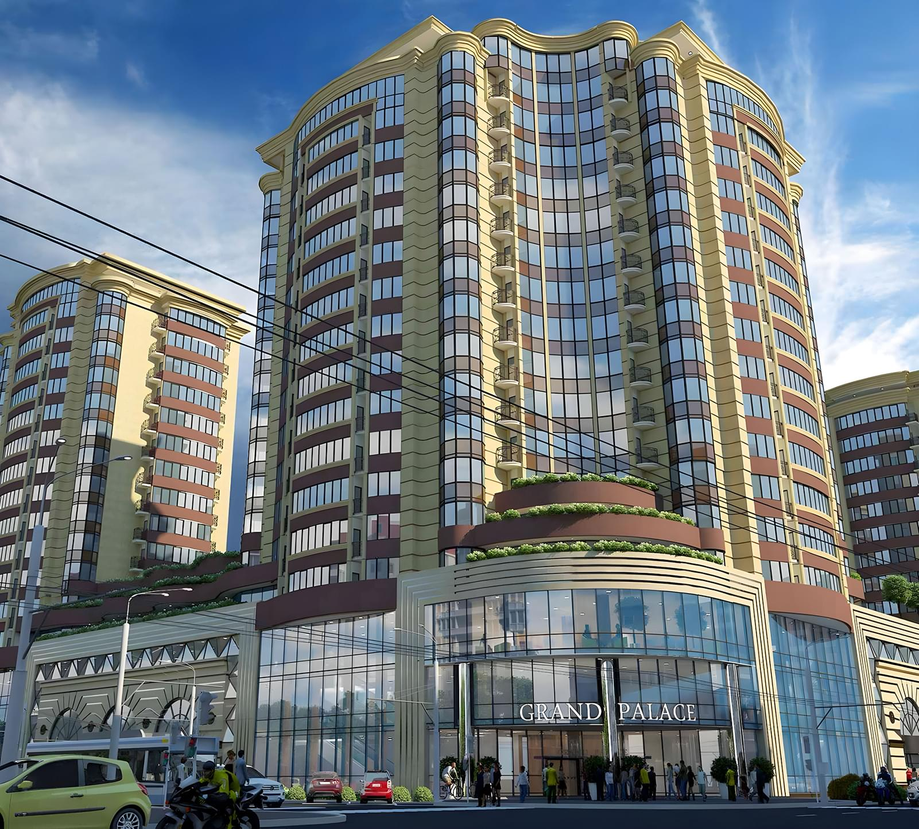
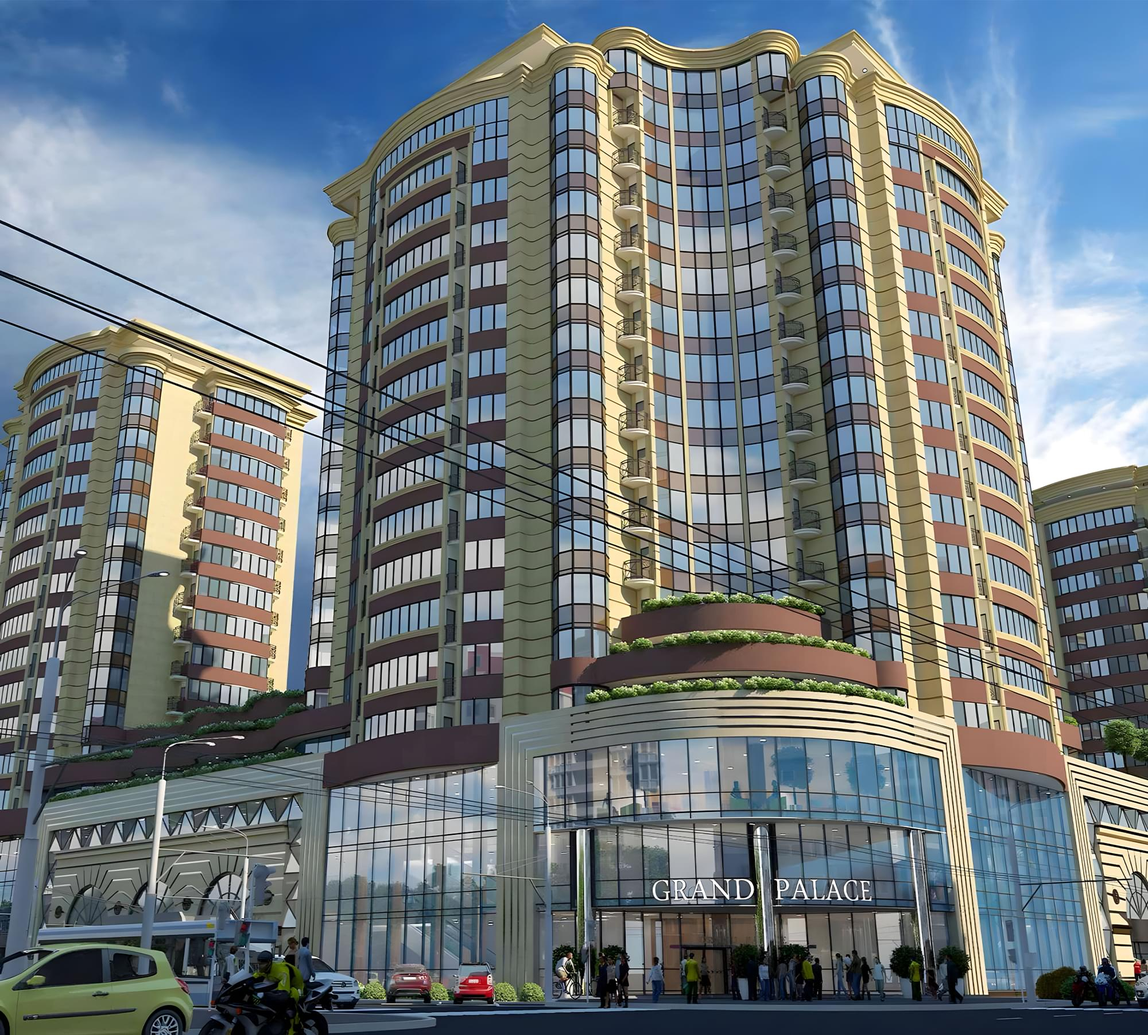
bgc img

diff --git a/docs/index.html b/docs/index.html
@@ -941,7 +941,7 @@
 </svg><use href="#fb"></use><use xlink:href="img/sprite.svg#fb"></use></svg></a><a class="social-link" href="https://www.instagram.com/grand_palace_km/" target="_blank" itemprop="sameAs"><object class="icon" type="image/svg+xml" data="img/instagram.svg" width="31" height="31"></object></a></div><div class="header-info__item header__lng-toggle" itemscope itemtype="http://schema.org/SiteNavigationElement"><a class="active" href="#" data-lang="uk" itemprop="url">Укр</a><a href="#" data-lang="ru" itemprop="url">Рус</a></div></div><nav class="header__menu" itemscope itemtype="http://schema.org/SiteNavigationElement"><ul class="menu__list"><li itemscope itemtype="http://schema.org/SiteNavigationElement"><a class="menu__link" href="residential.html" itemprop="url">Житлова нерухомість</a></li><li itemscope itemtype="http://schema.org/SiteNavigationElement"><a class="menu__link" href="commercial.html" itemprop="url">Комерційна нерухомість</a></li><li itemscope itemtype="http://schema.org/SiteNavigationElement"><a class="menu__link" href="#generalplan" itemprop="url">Загальний план</a></li><li itemscope itemtype="http://schema.org/SiteNavigationElement"><a class="menu__link" href="#overview" itemprop="url">Переваги</a></li><li itemscope itemtype="http://schema.org/SiteNavigationElement"><a class="menu__link" href="#progress" itemprop="url">Хід будівництва</a></li><li itemscope itemtype="http://schema.org/SiteNavigationElement"><a class="menu__link" href="#documentation" itemprop="url">Документація</a></li><li itemscope itemtype="http://schema.org/SiteNavigationElement"><a class="menu__link" href="contacts.html" itemprop="url">Контакти</a></li><li itemscope itemtype="http://schema.org/SiteNavigationElement"><a class="menu__link" href="news.html" itemprop="url">Новини</a></li></ul></nav></div></header><main class="main"><div class="popap-block"><div class="opacity-bg"></div><div class="popap-more-info"> <div class="popap-header-line"><h2 class="documentation__title title title--one-word"><span class="head-line">дізнатися ціну</span></h2></div><form> <div class="popap-input_block flex-popap"><span class="cancel-popap"><svg version="1.2" xmlns="http://www.w3.org/2000/svg" viewBox="0 0 16 16" width="16" height="16">
 <path fill="#9c1a1a" d="m14.7 0.8l1 1-13.9 13.9-1-1z"/>
 <path fill="#9c1a1a" d="m0.8 1.8l1-1 13.9 13.9-1 1z"/>
-</svg></span><p class="flex-popap label-flex input-popap"><label for="name">Імʼя*</label><input type="text" id="name" name="name"></p><p class="flex-popap label-flex input-popap"><label class="validation" for="phoneValidation">Номер телефону*</label><input class="phone-validation" id="phoneValidation" type="tel" name="phone"><div class="incorect-number-test d-none"> <p>*невірний формат вводу даних</p></div></p></div><div class="question flex-popap label-flex"><label>Запитання</label><textarea id="question" name="question" cols="30" rows="10"> </textarea></div><div class="radio-btn"><p><input type="radio" id="liveHouse" name="popapRadio"><label for="liveHouse">Житлова нерухомість</label></p><p><input type="radio" id="comercial" name="popapRadio"><label for="comercial">Комерційна нерухомість</label></p></div><button type="submit">відправити </button></form></div></div><section class="hero"><div class="container"><div class="row center-row-hero"><div class="left-side col"><p class="tagline">Grand Palace</p><h1 class="hero__title"><span class="text">простір для життя з високим стандартом у центрі міста</span></h1><a class="open-popap short-description__btn btn" href="#">Дізнатися ціну</a></div></div></div><div class="slider-images"> <img class="slider-img" src="img/hero1_1.webp" alt="Комерційні приміщення для бізнесу у ТРЦ Grand Palace" loading="lazy"><img src="img/hero.jpg" alt="Сучасний ТРЦ Grand Palce" loading="lazy"><img src="img/hero2_2.webp" alt="Зручний паркінг біля ТРЦ Grand Palace" loading="lazy"><img src="img/hero3_3.webp" alt="Проекція нового ТРЦ Grand Palace" loading="lazy"><img src="img/hero4_4.webp" alt="Житлові квартири в Grand Palace" loading="lazy"><img src="img/hero5_5.webp" alt="Загальний план будівництва - вигляд ззовні" loading="lazy"><img src="img/hero6_6.webp" alt="загальний вигляд Елітного ЖК Grand Palace" loading="lazy"></div></section><section class="real-estate"><div class="container"><article class="description-main_palace"> <h2 class="short-description__title title"><span class="head-line">Про</span> комплекс</h2><p>Відкрийте для себе «Гранд Палас» — ексклюзивний житловий комплекс у центрі Хмельницького, де кожна деталь ретельно продумана для вашої максимальної зручності та комфорту. </p><p>Живіть у центрі подій, насолоджуючись легким доступом до кращих магазинів, ресторанів та культурних закладів міста. </p><p>Життя у «Гранд Палас» — це втілення мрії про ідеальний простір для життя: сучасні просторі квартири з захоплюючими панорамними краєвидами, утепленні мінеральною ватою та з індивідуальними безпечними тепловими пунктами. </p><p>Інтегрований сучасний торгівельний центр, продуктовий супермаркет, фітнес-центр, підземний паркінг з’єднаний з квартирами прямим доступом через ліфти, а також затишні зони відпочинку, дитячий майданчик, ресторан та кафе і все це знаходиться безпосередньо на території комплексу.</p></article><article class="real-estate__residential"><div class="row"><div class="short-description col"><h2 class="short-description__title title"><span class="head-line">Житлова</span> нерухомість</h2><p class="short-description__text">Індивідуальне опалення, вільне планування, велика площа освітлення кімнат, швидкісні ліфти "Otis", цілодобова охорона та консьєрж послуги, можливість безпосередньо ліфтами потрапляти в підземний паркінг та в паркову зону на 4 поверсі, користування фітнес центром.</p><a class="short-description__btn btn" href="residential.html">Детальніше</a></div><div class="images-slider__items col"><span class="images-slider__item slider-item-1 active"></span><span class="images-slider__item slider-item-2"></span><span class="images-slider__item slider-item-3"></span><span class="images-slider__item slider-item-4"></span><span class="images-slider__item slider-item-5"></span></div></div></article><article class="real-estate__commercial"><div class="row"><div class="short-description col"><h2 class="short-description__title title"><span class="head-line">Комерційна</span> нерухомість</h2><p class="short-description__text">Великий вибір приміщень під комерційний бізнес. Вигідне розташування у самому центрі міста. Адаптація площі під будь-який бізнес. Незважаючи на те, чи то стріт-рітейл, кафе, ресторани, фітнес-центр, чи будь-який бізнес сфери послуг і сервісів, ми допоможемо підібрати ідеальне приміщення під бізнес з урахуванням ваших цілей і завдань.</p><a class="short-description__btn btn" href="commercial.html">Детальніше</a></div><div class="images-slider__items col"><span class="images-slider__item slider-item-1"></span><span class="images-slider__item slider-item-2"></span><span class="images-slider__item slider-item-3"></span><span class="images-slider__item slider-item-4"></span><span class="images-slider__item slider-item-5 active"></span></div></div></article></div></section><section class="plan"><span class="ancor" id="generalplan"></span><div class="title-wrap"><h2 class="plan__title title"><span class="head-line">Загальний</span> план</h2></div><div class="plan-bg"><div class="container"><div class="row"><aside class="plan__legend legend-areas"><h3>Умовні позначення</h3><ol><li><div class="legend__icon"><span class="icon-number">1</span><svg class="icon-sprite icon-sprite__pin"><svg xmlns="http://www.w3.org/2000/svg">
+</svg></span><p class="flex-popap label-flex input-popap"><label for="name">Імʼя*</label><input type="text" id="name" name="name"></p><p class="flex-popap label-flex input-popap"><label class="validation" for="phoneValidation">Номер телефону*</label><input class="phone-validation" id="phoneValidation" type="tel" name="phone"><div class="incorect-number-test d-none"> <p>*невірний формат вводу даних</p></div></p></div><div class="question flex-popap label-flex"><label>Запитання</label><textarea id="question" name="question" cols="30" rows="10"> </textarea></div><div class="radio-btn"><p><input type="radio" id="liveHouse" name="popapRadio"><label for="liveHouse">Житлова нерухомість</label></p><p><input type="radio" id="comercial" name="popapRadio"><label for="comercial">Комерційна нерухомість</label></p></div><button type="submit">відправити </button></form></div></div><section class="hero"><div class="container"><div class="row center-row-hero"><div class="left-side col"><p class="tagline">Grand Palace</p><h1 class="hero__title"><span class="text">простір для життя з високим стандартом у центрі міста</span></h1><a class="open-popap short-description__btn btn" href="#">Дізнатися ціну</a></div></div></div><div class="slider-images"> <img class="slider-img" src="img/hero-bg.jpg" alt="Комерційні приміщення для бізнесу у ТРЦ Grand Palace" loading="lazy"><img src="img/hero-bg.jpg" alt="Сучасний ТРЦ Grand Palce" loading="lazy" style="filter: hue-rotate(-45deg)"><img src="img/hero-bg.jpg" alt="Зручний паркінг біля ТРЦ Grand Palace" loading="lazy"><img src="img/hero-bg.jpg" alt="Проекція нового ТРЦ Grand Palace" loading="lazy" style="filter: hue-rotate(-45deg)"><img src="img/hero-bg.jpg" alt="Житлові квартири в Grand Palace" loading="lazy"><img src="img/hero-bg.jpg" alt="Загальний план будівництва - вигляд ззовні" loading="lazy" style="filter: hue-rotate(-45deg)"><img src="img/hero-bg.jpg" alt="загальний вигляд Елітного ЖК Grand Palace" loading="lazy"></div></section><section class="real-estate"><div class="container"><article class="description-main_palace"> <h2 class="short-description__title title"><span class="head-line">Про</span> комплекс</h2><p>Відкрийте для себе «Гранд Палас» — ексклюзивний житловий комплекс у центрі Хмельницького, де кожна деталь ретельно продумана для вашої максимальної зручності та комфорту. </p><p>Живіть у центрі подій, насолоджуючись легким доступом до кращих магазинів, ресторанів та культурних закладів міста. </p><p>Життя у «Гранд Палас» — це втілення мрії про ідеальний простір для життя: сучасні просторі квартири з захоплюючими панорамними краєвидами, утепленні мінеральною ватою та з індивідуальними безпечними тепловими пунктами. </p><p>Інтегрований сучасний торгівельний центр, продуктовий супермаркет, фітнес-центр, підземний паркінг з’єднаний з квартирами прямим доступом через ліфти, а також затишні зони відпочинку, дитячий майданчик, ресторан та кафе і все це знаходиться безпосередньо на території комплексу.</p></article><article class="real-estate__residential"><div class="row"><div class="short-description col"><h2 class="short-description__title title"><span class="head-line">Житлова</span> нерухомість</h2><p class="short-description__text">Індивідуальне опалення, вільне планування, велика площа освітлення кімнат, швидкісні ліфти "Otis", цілодобова охорона та консьєрж послуги, можливість безпосередньо ліфтами потрапляти в підземний паркінг та в паркову зону на 4 поверсі, користування фітнес центром.</p><a class="short-description__btn btn" href="residential.html">Детальніше</a></div><div class="images-slider__items col"><span class="images-slider__item slider-item-1 active"></span><span class="images-slider__item slider-item-2"></span><span class="images-slider__item slider-item-3"></span><span class="images-slider__item slider-item-4"></span><span class="images-slider__item slider-item-5"></span></div></div></article><article class="real-estate__commercial"><div class="row"><div class="short-description col"><h2 class="short-description__title title"><span class="head-line">Комерційна</span> нерухомість</h2><p class="short-description__text">Великий вибір приміщень під комерційний бізнес. Вигідне розташування у самому центрі міста. Адаптація площі під будь-який бізнес. Незважаючи на те, чи то стріт-рітейл, кафе, ресторани, фітнес-центр, чи будь-який бізнес сфери послуг і сервісів, ми допоможемо підібрати ідеальне приміщення під бізнес з урахуванням ваших цілей і завдань.</p><a class="short-description__btn btn" href="commercial.html">Детальніше</a></div><div class="images-slider__items col"><span class="images-slider__item slider-item-1"></span><span class="images-slider__item slider-item-2"></span><span class="images-slider__item slider-item-3"></span><span class="images-slider__item slider-item-4"></span><span class="images-slider__item slider-item-5 active"></span></div></div></article></div></section><section class="plan"><span class="ancor" id="generalplan"></span><div class="title-wrap"><h2 class="plan__title title"><span class="head-line">Загальний</span> план</h2></div><div class="plan-bg"><div class="container"><div class="row"><aside class="plan__legend legend-areas"><h3>Умовні позначення</h3><ol><li><div class="legend__icon"><span class="icon-number">1</span><svg class="icon-sprite icon-sprite__pin"><svg xmlns="http://www.w3.org/2000/svg">
 <symbol id="fb" viewBox="0 0 31 31">
 <path d="M27.8,0H3.2C1.5,0,0,1.5,0,3.2v24.6C0,29.5,1.5,31,3.2,31h24.6c1.8,0,3.2-1.5,3.2-3.2V3.2C31,1.5,29.5,0,27.8,0 z M25.9,20.1h-4.7l0,10.8h-6L15.2,20h-2.9v-4.9h3l0-5.9c0,0,0.6-3.9,4-4c3.4-0.1,5.9,0,5.9,0v4.8h-2.9c0,0-1.1,0.1-1.1,1.2 S21,14.9,21,14.9l4.9,0V20.1z" />
 </symbol>
